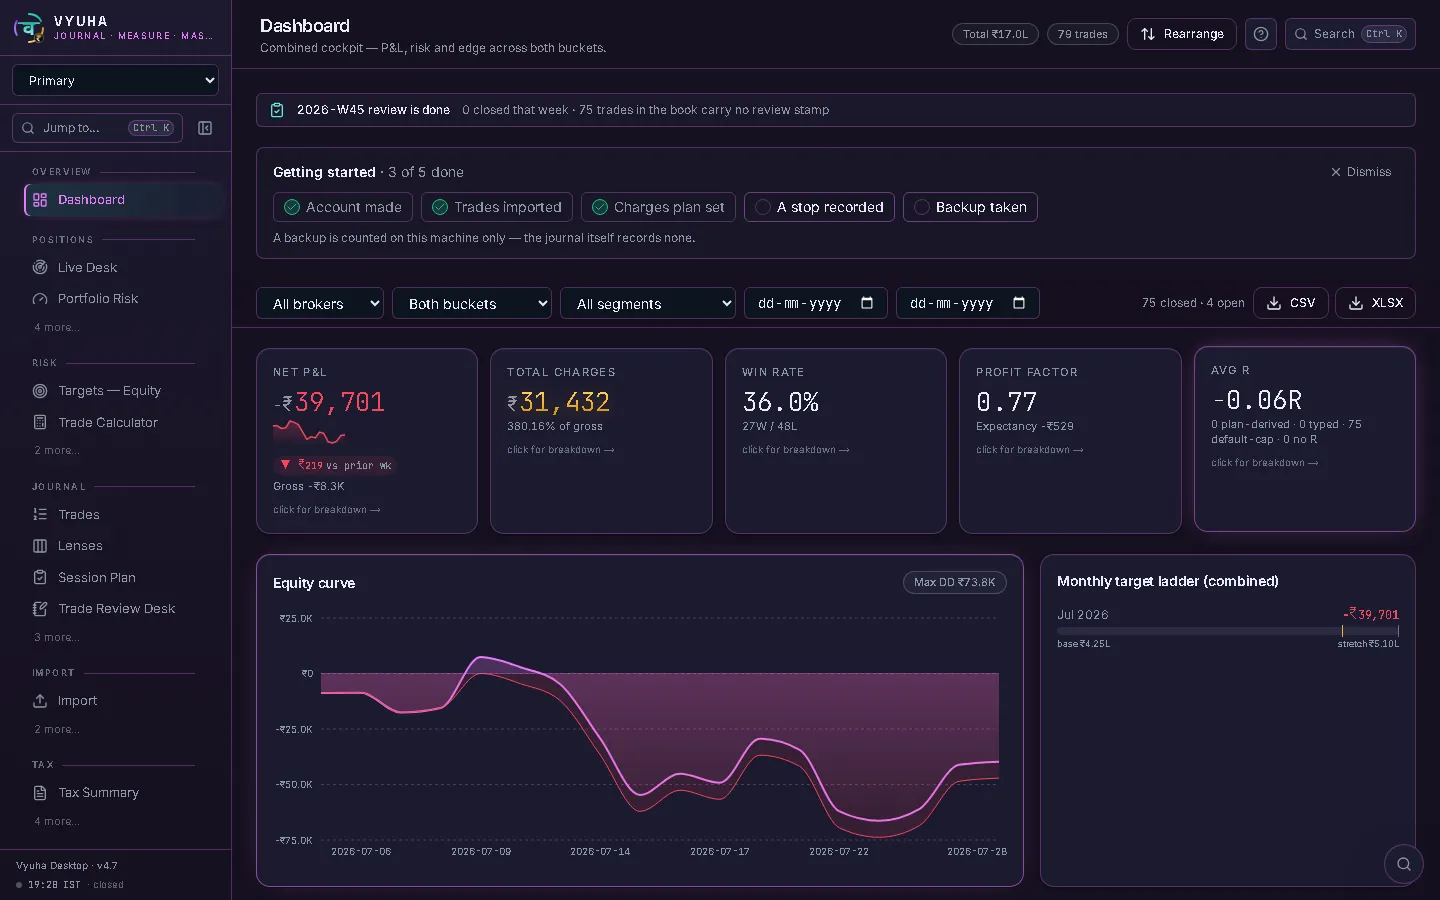
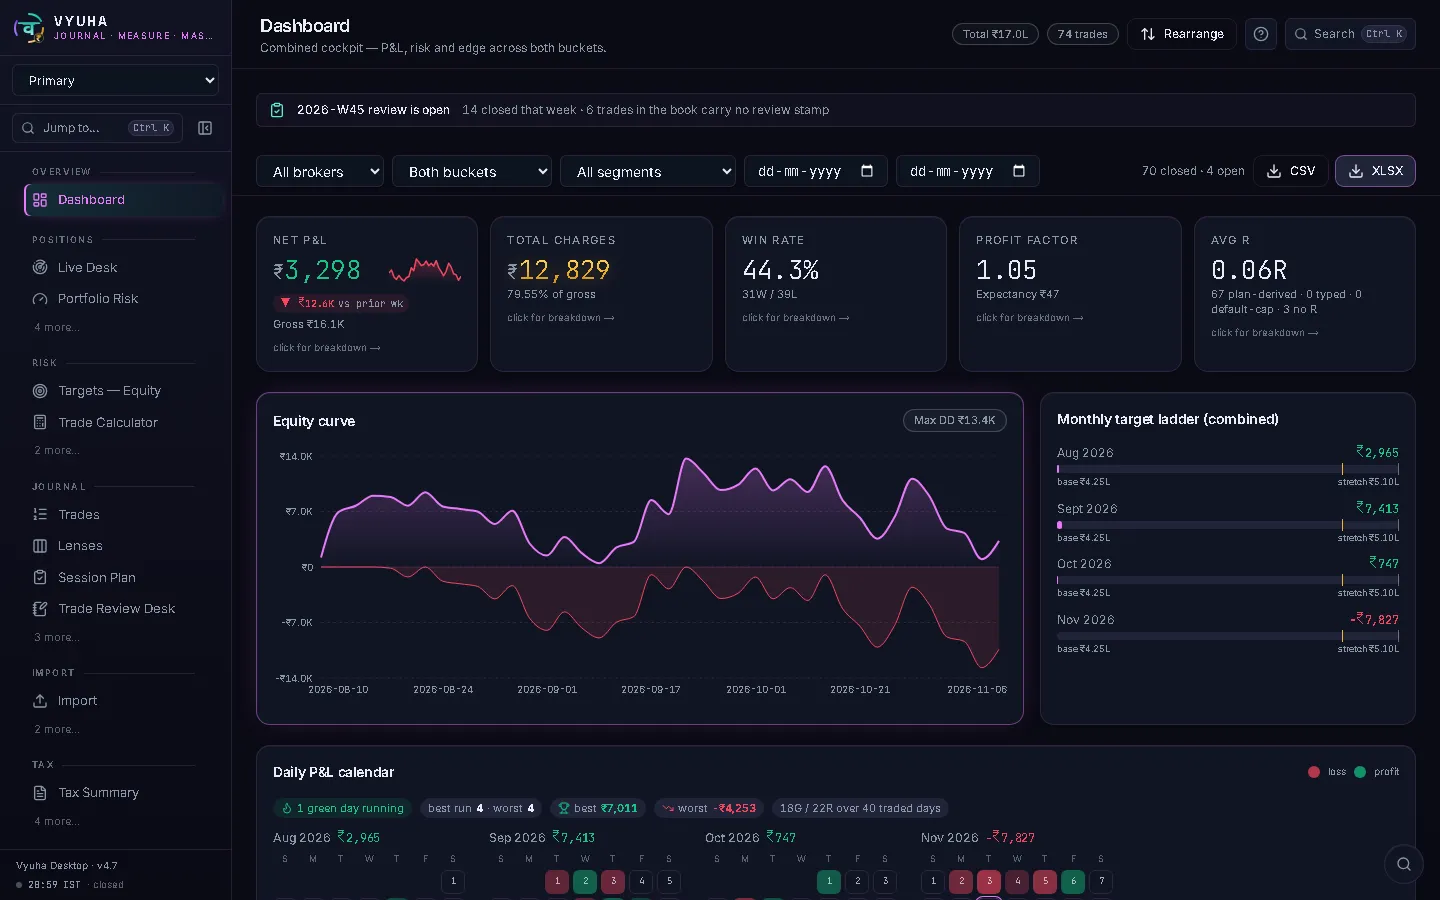
store screenshots: the FINAL aurora-flat set (owner 10 Nov: Aurora skin, Flat panels, tint 0) and its hand-off
The eight 1440x900 webp files in public/help/store-aurora-flat/ are re-shot from the richer demo book
(30 real NSE large caps, 70 closed trades, net +Rs 3,298, 4 marked open positions; demo data only).
docs/owner/STORE-HANDOFF-2026-11-10.md now names this set as final, says how it was made, retires
store-terminal/ and adds the caption guard (sample data, never a performance claim).
Left uncommitted by the 10 Nov pricing session; committed by path after checking the files
(8 webp, 1440x900, 20:59-21:00 on 10 Nov) and the hand-off diff.

diff --git a/docs/owner/STORE-HANDOFF-2026-11-10.md b/docs/owner/STORE-HANDOFF-2026-11-10.md
@@ -2,7 +2,8 @@
 
 For the session **"Payment gateway home redesign"**, which is building the KTR Khata Book store in
 `T:\Thejesh\CODEX\MY-PAYMENT GATEWAY`. The VYUHA session wrote this, and every fact below was checked
-in the VYUHA repo on `main` (the price tests pass; the change is being committed, not pushed). Nothing in the store repo was changed.
+in the VYUHA repo on `main` (pricing committed as `08e34e0` and `43a8322`, not pushed; the final pictures
+are on disk, not yet committed). Nothing in the store repo was changed.
 
 ## 1. What changed in VYUHA today: the app now matches the store
 
@@ -47,16 +48,35 @@ Honesty rules the app enforces, worth copying:
 - An introductory price is never shown without its next-period price beside it.
 - A higher price is a real price the owner intends to charge, never an invented strike-through.
 
-## 4. New screenshots (replace the six teal files in `public/assets/vyuha-app`)
+## 4. Screenshots: use `store-aurora-flat` (re-shot 10 Nov from a better demo book)
 
-Owner batch A item 5: "either use Terminal or aurora flat". Both sets now exist, in VYUHA v4.7.0 with
-demo data only. They were shot from a throwaway database seeded from `tests/fixtures/dhan-gtr.csv`, the
-dark theme was forced, and no email or licence key appears in them (the capture script refused to save
-any page showing one). Each file is a 1440×900 webp at quality 80.
+Owner, 10 Nov: "Use now, better book later", then "aurora theme and FLAT background". The FINAL set is:
 
-Folders:
-- `T:\Thejesh\CLAUDE-CODE\VYUHA\TRADE-JOURNAL\public\help\store-terminal\`: the "Terminal" skin (id `mono`), default panel style
-- `T:\Thejesh\CLAUDE-CODE\VYUHA\TRADE-JOURNAL\public\help\store-aurora-flat\`: the Aurora skin with the Flat panel style
+`T:\Thejesh\CLAUDE-CODE\VYUHA\TRADE-JOURNAL\public\help\store-aurora-flat\` (same 8 file names as before,
+so any reference already pointing at them keeps working; just copy the new files over).
+
+How they were made, so the store can state it honestly:
+- VYUHA v4.7.0, dark theme, Aurora skin, **Flat** panel style, **Tint intensity 0** (plain dark canvas,
+  no purple wash; Aurora pink/violet stays on buttons, the active menu item and charts).
+- 1440×900 webp, quality 80, not resized: make the store's own sizes (for example the 840-wide covers).
+- **Demo data only**, in a throwaway database; never the owner's journal. No email or licence key on
+  any page (the capture script refuses to save a page that shows one).
+- The "Pro trial — 7 days left" strip is hidden at capture time only (owner's choice); the app is unchanged.
+
+The demo book (built for these pictures):
+- 30 real NSE large caps (RELIANCE, TCS, SBIN, TITAN, ...); every entry and exit is a real NSE open or
+  close between 3 Aug and 9 Nov 2026, imported through the app's own import screen as a Dhan file.
+- A modest, MIXED record (sales pictures, not performance claims): 70 closed trades, 31 wins / 39 losses
+  (44.3%), net **+₹3,298** on ₹17 lakh capital (+0.34%), profit factor 1.05, max drawdown ₹13.4k;
+  Aug/Sep/Oct positive, Nov −₹7,827.
+- Stops on 67 of 70 trades, targets, 4 playbooks with rules, setup grades, emotion and mistake tags,
+  review stamps: so Arjun's Eye, Edge Clinic (incl. Discipline / Process Score) and R figures show content.
+- 4 open positions valued at the real 9 Nov close (Live Desk rows marked, none past stop or target).
+- Market Atlas computed from a real 252-session NSE end-of-day backfill (public NSE files), as of 9 Nov.
+- The "Getting started" card is dismissed, as a user would.
+
+Do NOT use `store-terminal\` any more: it is the earlier set from the old "Test Scrip" demo book
+(a losing record, unmarked positions).
 
 | File | Page |
 |---|---|
@@ -69,15 +89,8 @@ Folders:
 | `arjuns-eye.webp` | Arjun's Eye |
 | `market-atlas.webp` | Market Atlas |
 
-Limits of the demo data, so the page design does not lean on them:
-- The demo book loses money: net P&L shows −₹39,701 and the win rate is 36%.
-- Symbols read "Test Scrip 56" and similar.
-- The Live Desk rows say "No mark stored for this position yet".
-- The dashboard shows a "Getting started 3 of 5" card.
-
-Crop around these, or ask the VYUHA session for a richer demo book; do NOT shoot the owner's real
-journal. The images are not resized: make the store's own sizes (for example the 840-wide covers)
-from these files.
+Wording guard for captions: the numbers in the pictures are a DEMO book. Never present them as a
+user's result, a return, or a performance claim; "sample data" is the honest caption.
 
 ## 5. How VYUHA should be described (owner words, store DECISIONS batch C)
 
